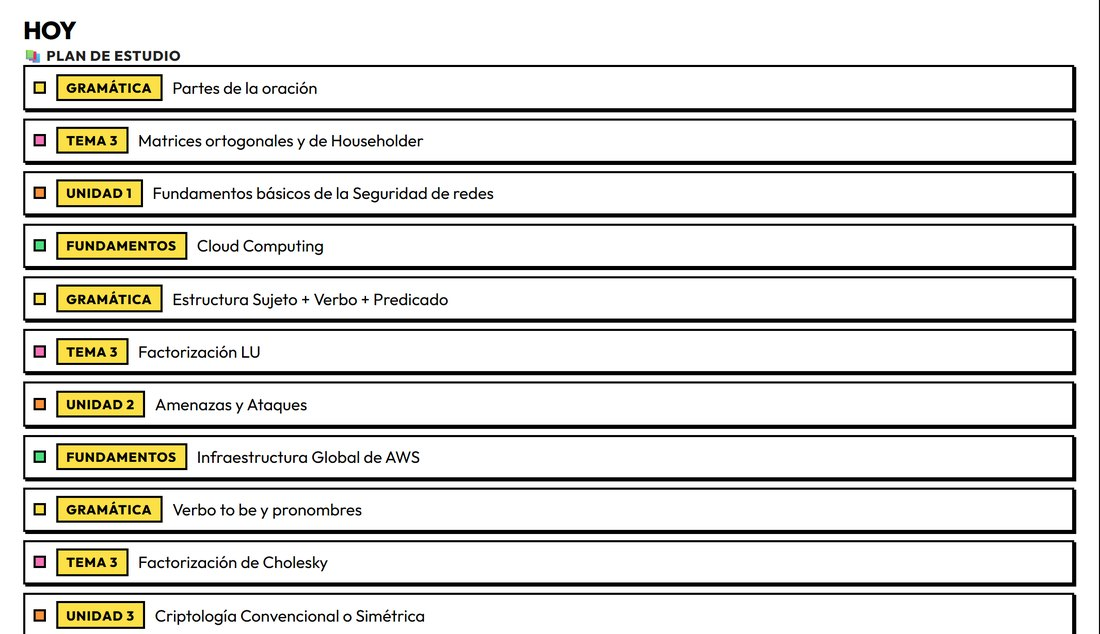
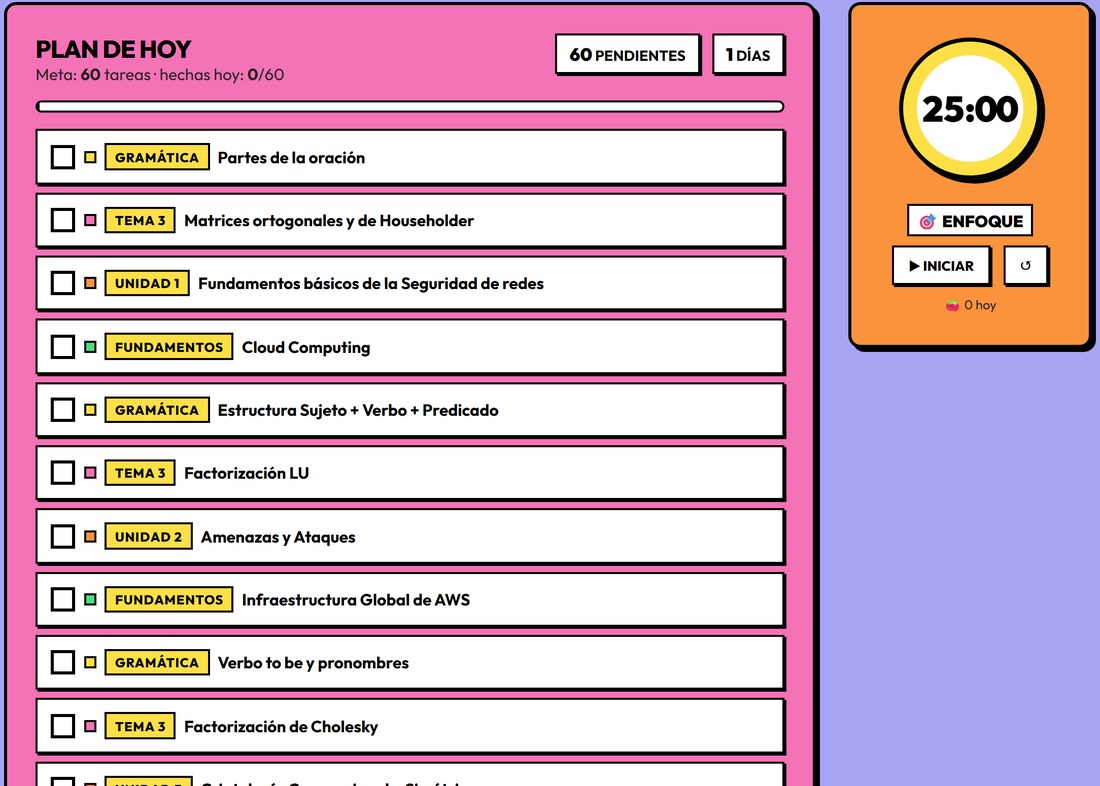
Lamina 10: el explorador de archivos real con el semestre por materia, y el plan de hoy con el pomodoro

diff --git a/assets/js/slides/04-agentes.js b/assets/js/slides/04-agentes.js
@@ -107,8 +107,8 @@ window.DECK.push(
 
     <div class="body-area auto">
       <div class="au-grid">
-        <figure class="au"><div class="au-img"><img src="assets/img/auto-archivo.jpg" alt="Archivo del diario con 1.936 archivos indexados"></div><figcaption><b>1.936 archivos</b> ordenados con IA</figcaption></figure>
-        <figure class="au"><div class="au-img"><img src="assets/img/auto-plan.jpg" alt="Plan de estudio del día en el calendario"></div><figcaption><b>Plan de estudio</b> diario</figcaption></figure>
+        <figure class="au"><div class="au-img"><img src="assets/img/auto-archivo.jpg" alt="Explorador de archivos con las carpetas del semestre por materia"></div><figcaption><b>El semestre</b> ordenado con IA</figcaption></figure>
+        <figure class="au"><div class="au-img"><img src="assets/img/auto-plan.jpg" alt="Plan de estudio del día en el calendario"></div><figcaption><b>Plan de estudio</b> del día</figcaption></figure>
         <!-- El bot ocupa la columna entera: es la unica pieza que se ve
              trabajando en tiempo real. Se le pide la nota informativa de una
              materia y lo que queda pendiente, y responde con datos del propio
